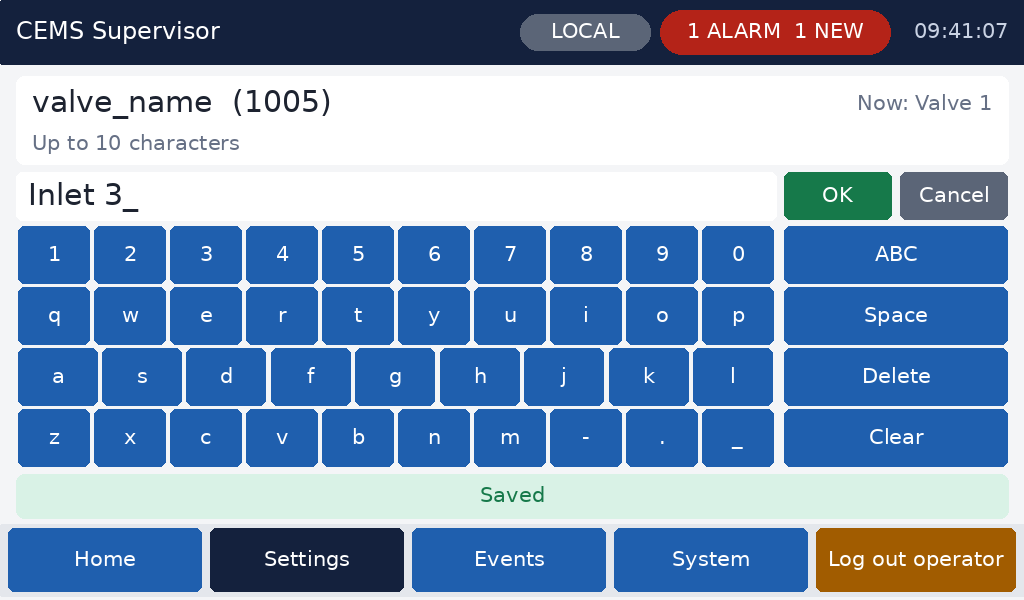
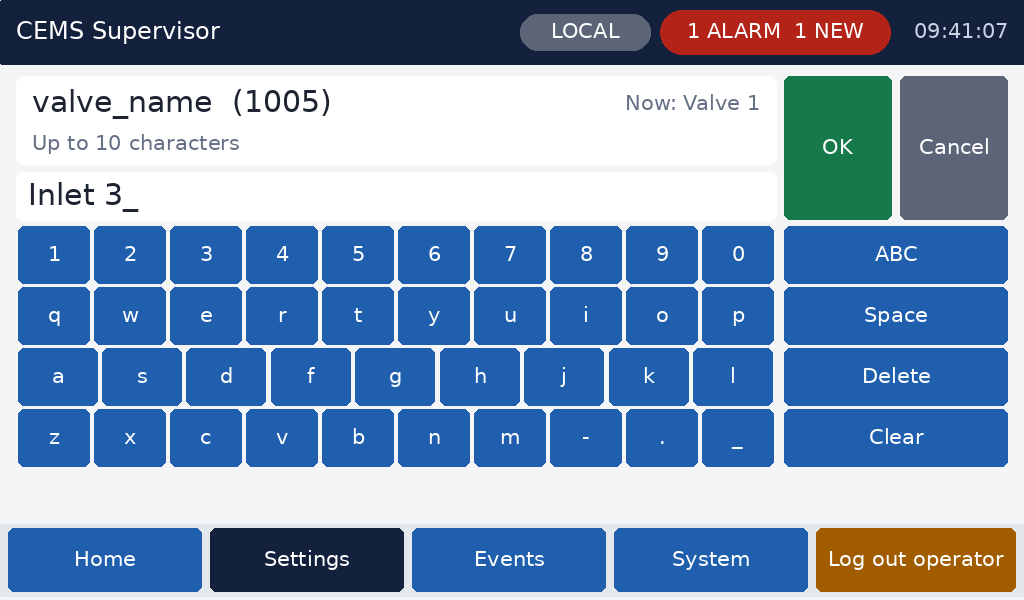
Record editor and text keyboard: buttons at least 56 px (UI_CONVENTIONS 6)
Record editor header: Save, Cancel, - and + 56 px tall (were 48). Text
keyboard: OK and Cancel 144 px tall beside the narrowed card (were 48).

Claude-Session: https://claude.ai/code/session_01AbDXgecyAmn6R8hhL7qjD2

Changed region(s): [[0.0, 0.78, 1.0, 0.87], [0.75, 0.12, 1.0, 0.36], [0.5938, 0.15, 0.7188, 0.18]]

diff --git a/platform/ui/ui.c b/platform/ui/ui.c
@@ -743,14 +743,15 @@ static void draw_edit(void) {
     const param_def_t *d = U.ed;
     if (!d) return;
     char b[96], r[64];
-    box(16, BODY_Y, 992, 88, C_CARD, 8);
+    int16_t cw = U.kb == KB_TEXT ? 760 : 992;            /* the text keyboard's OK/Cancel stand beside it */
+    box(16, BODY_Y, cw, 88, C_CARD, 8);
     color(C_INK);
     snprintf(b, sizeof b, "%s  (%u)", d->name, d->id);
     text(32, BODY_Y + 10, F_BIG, 0, b);
     fmt_value(d, r, sizeof r);
     snprintf(b, sizeof b, "Now: %s", r);
     color(C_MUTE);
-    text(992, BODY_Y + 16, F_TEXT, OPT_RIGHTX, b);
+    text((int16_t)(cw), BODY_Y + 16, F_TEXT, OPT_RIGHTX, b);
     if (d->ptype == PT_INT) snprintf(r, sizeof r, "Range %ld .. %ld", (long)d->vmin.i, (long)d->vmax.i);
     else if (d->ptype == PT_UINT && !is_ip(d)) snprintf(r, sizeof r, "Range %lu .. %lu", (unsigned long)d->vmin.u, (unsigned long)d->vmax.u);
     else if (d->ptype == PT_FLOAT) { char a[24], z[24]; fmt_float(a, sizeof a, (double)d->vmin.f); fmt_float(z, sizeof z, (double)d->vmax.f); snprintf(r, sizeof r, "Range %s .. %s", a, z); }
@@ -771,7 +772,9 @@ static void draw_edit(void) {
     text(28, (int16_t)(y + 24), F_BIG, OPT_CENTERY, b);
     draw_keyboard((int16_t)(y + 54), U.kb == KB_TEXT);
     int16_t bx = U.kb == KB_TEXT ? 784 : 664;
-    if (U.kb == KB_TEXT) { button(T_OK, bx, y, 108, 48, "OK", C_OK, true); button(T_CANCEL, bx + 116, y, 108, 48, "Cancel", 0x5B6577u, true); }
+    if (U.kb == KB_TEXT) {                               /* beside the narrowed card and the entry: 144 px tall */
+        button(T_OK, bx, BODY_Y, 108, 144, "OK", C_OK, true); button(T_CANCEL, (int16_t)(bx + 116), BODY_Y, 108, 144, "Cancel", 0x5B6577u, true);
+    }
     else { button(T_OK, bx, (int16_t)(y + 54), 344, 119, "OK", C_OK, true); button(T_CANCEL, bx, (int16_t)(y + 176), 344, 119, "Cancel", 0x5B6577u, true); }
 }
 
@@ -1506,7 +1509,7 @@ static bool cell_submit(bool on, uint32_t now) {
 static void draw_cell_edit(void) {
     const ui_field_t *f = U.cell_f;
     char b[96], r[64];
-    box(16, BODY_Y, 992, 88, C_CARD, 8);
+    box(16, BODY_Y, U.kb == KB_TEXT ? 760 : 992, 88, C_CARD, 8);
     color(C_INK);
     if (U.rec->rows) snprintf(b, sizeof b, "%s: %s, row %u", U.rec->title, f->label, U.cell_row + 1u);
     else if (f->count > 1) snprintf(b, sizeof b, "%s: %s %u", U.rec->title, f->label, U.cell_elem + 1u);
@@ -1524,7 +1527,9 @@ static void draw_cell_edit(void) {
     text(28, (int16_t)(y + 24), F_BIG, OPT_CENTERY, b);
     draw_keyboard((int16_t)(y + 54), U.kb == KB_TEXT);
     int16_t bx = U.kb == KB_TEXT ? 784 : 664;
-    if (U.kb == KB_TEXT) { button(T_OK, bx, y, 108, 48, "OK", C_OK, true); button(T_CANCEL, bx + 116, y, 108, 48, "Cancel", 0x5B6577u, true); }
+    if (U.kb == KB_TEXT) {                               /* beside the narrowed card and the entry: 144 px tall */
+        button(T_OK, bx, BODY_Y, 108, 144, "OK", C_OK, true); button(T_CANCEL, (int16_t)(bx + 116), BODY_Y, 108, 144, "Cancel", 0x5B6577u, true);
+    }
     else { button(T_OK, bx, (int16_t)(y + 54), 344, 119, "OK", C_OK, true); button(T_CANCEL, bx, (int16_t)(y + 176), 344, 119, "Cancel", 0x5B6577u, true); }
 }
 
@@ -1534,17 +1539,17 @@ static void draw_rec(void) {
     if (!r) return;
     const char *why = rec_why_not();
     unsigned used = ui_record_rows_used(r, U.rec_buf);
-    box(16, BODY_Y, 992, 56, C_CARD, 8);
-    color(C_INK); text(32, BODY_Y + 28, F_BIG, OPT_CENTERY, r->title);
+    box(16, BODY_Y, 992, 64, C_CARD, 8);
+    color(C_INK); text(32, BODY_Y + 32, F_BIG, OPT_CENTERY, r->title);
     if (r->rows && r->rows_off != UI_ROWS_ALL) {
         char b[32]; snprintf(b, sizeof b, "In use: %u", used);
-        color(C_MUTE); text(330, BODY_Y + 28, F_TEXT, OPT_CENTERY, b);
-        button(T_OFF, 470, BODY_Y + 4, 64, 48, "-", C_ACCENT, !why && used > 0);
-        button(T_ON, 540, BODY_Y + 4, 64, 48, "+", C_ACCENT, !why && used < r->rows);
+        color(C_MUTE); text(330, BODY_Y + 32, F_TEXT, OPT_CENTERY, b);
+        button(T_OFF, 462, BODY_Y + 4, 72, 56, "-", C_ACCENT, !why && used > 0);
+        button(T_ON, 540, BODY_Y + 4, 72, 56, "+", C_ACCENT, !why && used < r->rows);
     }
-    button(T_OK, 700, BODY_Y + 4, 150, 48, U.rec_wait ? "Saving..." : "Save", U.rec_changed ? C_OK : C_ACCENT, !why && !U.rec_wait);
-    button(T_CANCEL, 858, BODY_Y + 4, 150, 48, U.rec_changed ? "Cancel" : "Close", 0x5B6577u, true);
-    int16_t y = BODY_Y + 64;
+    button(T_OK, 700, BODY_Y + 4, 150, 56, U.rec_wait ? "Saving..." : "Save", U.rec_changed ? C_OK : C_ACCENT, !why && !U.rec_wait);
+    button(T_CANCEL, 858, BODY_Y + 4, 150, 56, U.rec_changed ? "Cancel" : "Close", 0x5B6577u, true);
+    int16_t y = BODY_Y + 72;
     unsigned tag = T_W0;
     if (r->rows) {                                       /* table: 5 rows a page */
         int16_t cx[12], cw[12];
@@ -1578,8 +1583,8 @@ static void draw_rec(void) {
             }
         }
         U.rec_next = (uint16_t)row;
-        button(T_PGUP, 908, (int16_t)(BODY_Y + 64), 100, 160, "Up", C_ACCENT, U.rec_first > 0);
-        button(T_PGDN, 908, (int16_t)(BODY_Y + 232), 100, 160, "Down", C_ACCENT, row < r->rows);
+        button(T_PGUP, 908, (int16_t)(BODY_Y + 72), 100, 160, "Up", C_ACCENT, U.rec_first > 0);
+        button(T_PGDN, 908, (int16_t)(BODY_Y + 240), 100, 160, "Down", C_ACCENT, row < r->rows);
     } else {                                             /* form: one line per field (arrays wrap at 16) */
         unsigned i = U.rec_first;
         for (; i < r->n_fields; ++i) {
@@ -1615,8 +1620,8 @@ static void draw_rec(void) {
         }
         U.rec_next = (uint16_t)i;
         if (U.rec_first || i < r->n_fields) {
-            button(T_PGUP, 908, (int16_t)(BODY_Y + 64), 100, 160, "Up", C_ACCENT, U.rec_first > 0);
-            button(T_PGDN, 908, (int16_t)(BODY_Y + 232), 100, 160, "Down", C_ACCENT, i < r->n_fields);
+            button(T_PGUP, 908, (int16_t)(BODY_Y + 72), 100, 160, "Up", C_ACCENT, U.rec_first > 0);
+            button(T_PGDN, 908, (int16_t)(BODY_Y + 240), 100, 160, "Down", C_ACCENT, i < r->n_fields);
         }
     }
     if (why) { color(C_MUTE); text(456, TOAST_Y + 22, F_SMALL, OPT_CENTER, why); }   /* a message covers it */

diff --git a/docs/UI_CONVENTIONS.md b/docs/UI_CONVENTIONS.md
@@ -98,8 +98,7 @@ the instrument, it adds its red "Connection lost" banner and greys every value.
 
 - Touch targets are at least 56 px in both directions (8.4 mm on the RVT70, 6.64 px/mm),
   with 6 px between neighbours. An action happens on release over the same widget, so sliding
-  off cancels it. Known exceptions, still to be enlarged: the 48 px Save/Cancel and +/- buttons
-  on the record editor, and OK/Cancel above the text keyboard.
+  off cancels it.
 - These ask "Are you sure?" first: a mode change, a network change, restore defaults, a
   firmware restart, entering or leaving MAINTENANCE, and any entry flagged `PF_CONFIRM`.
 - A disabled control stays visible in C_GREY, and the row says why.
